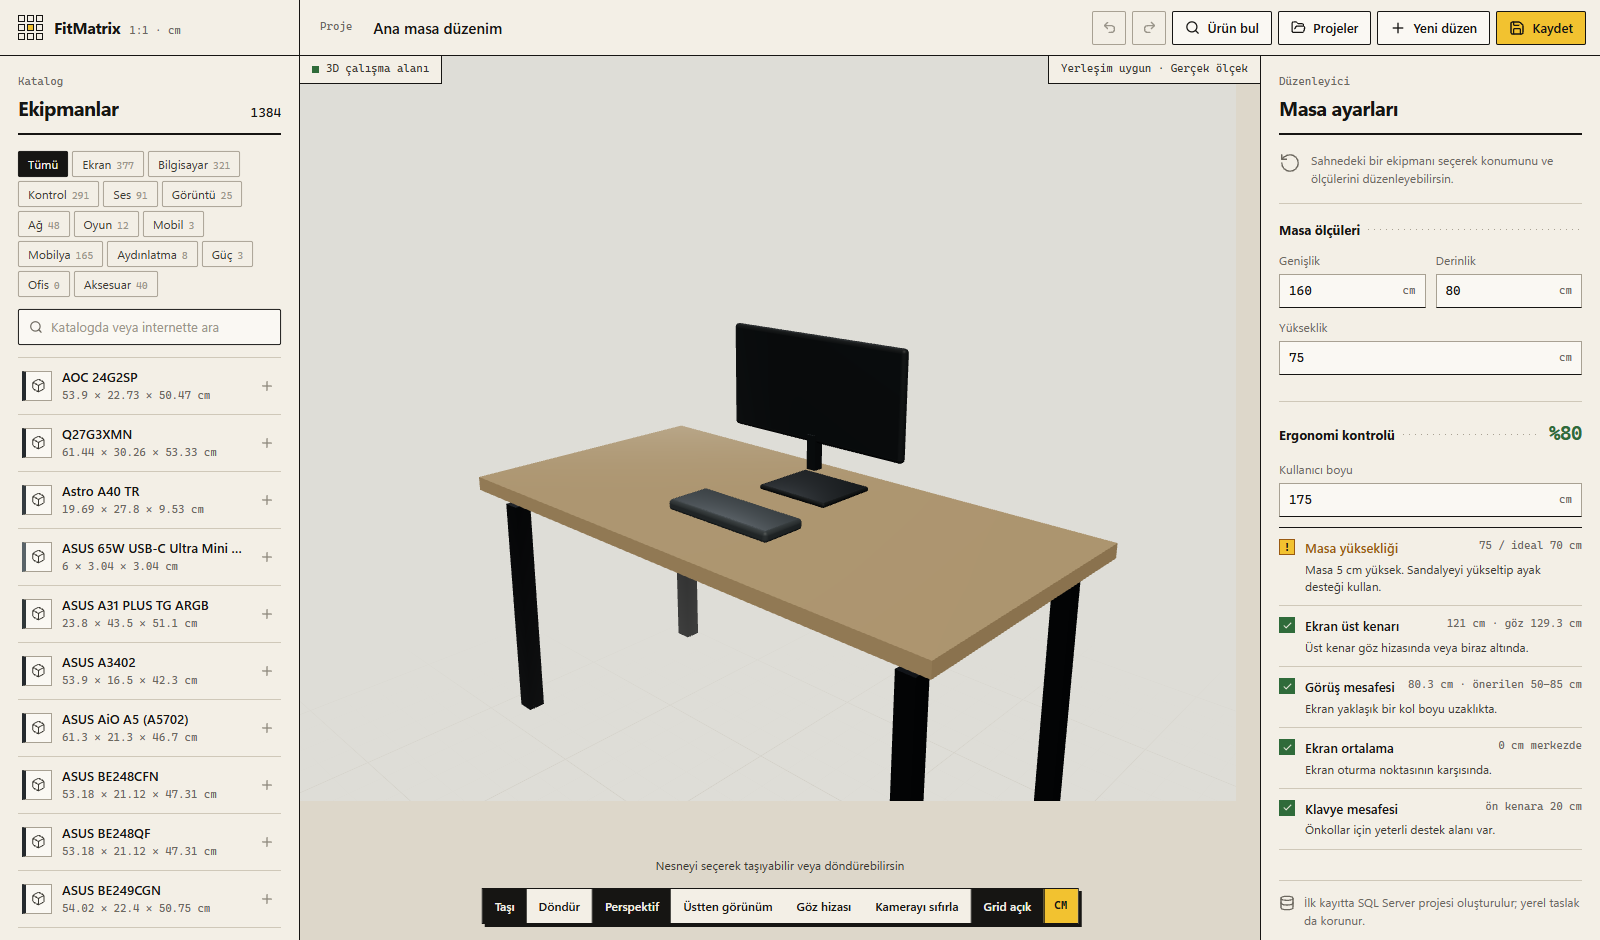
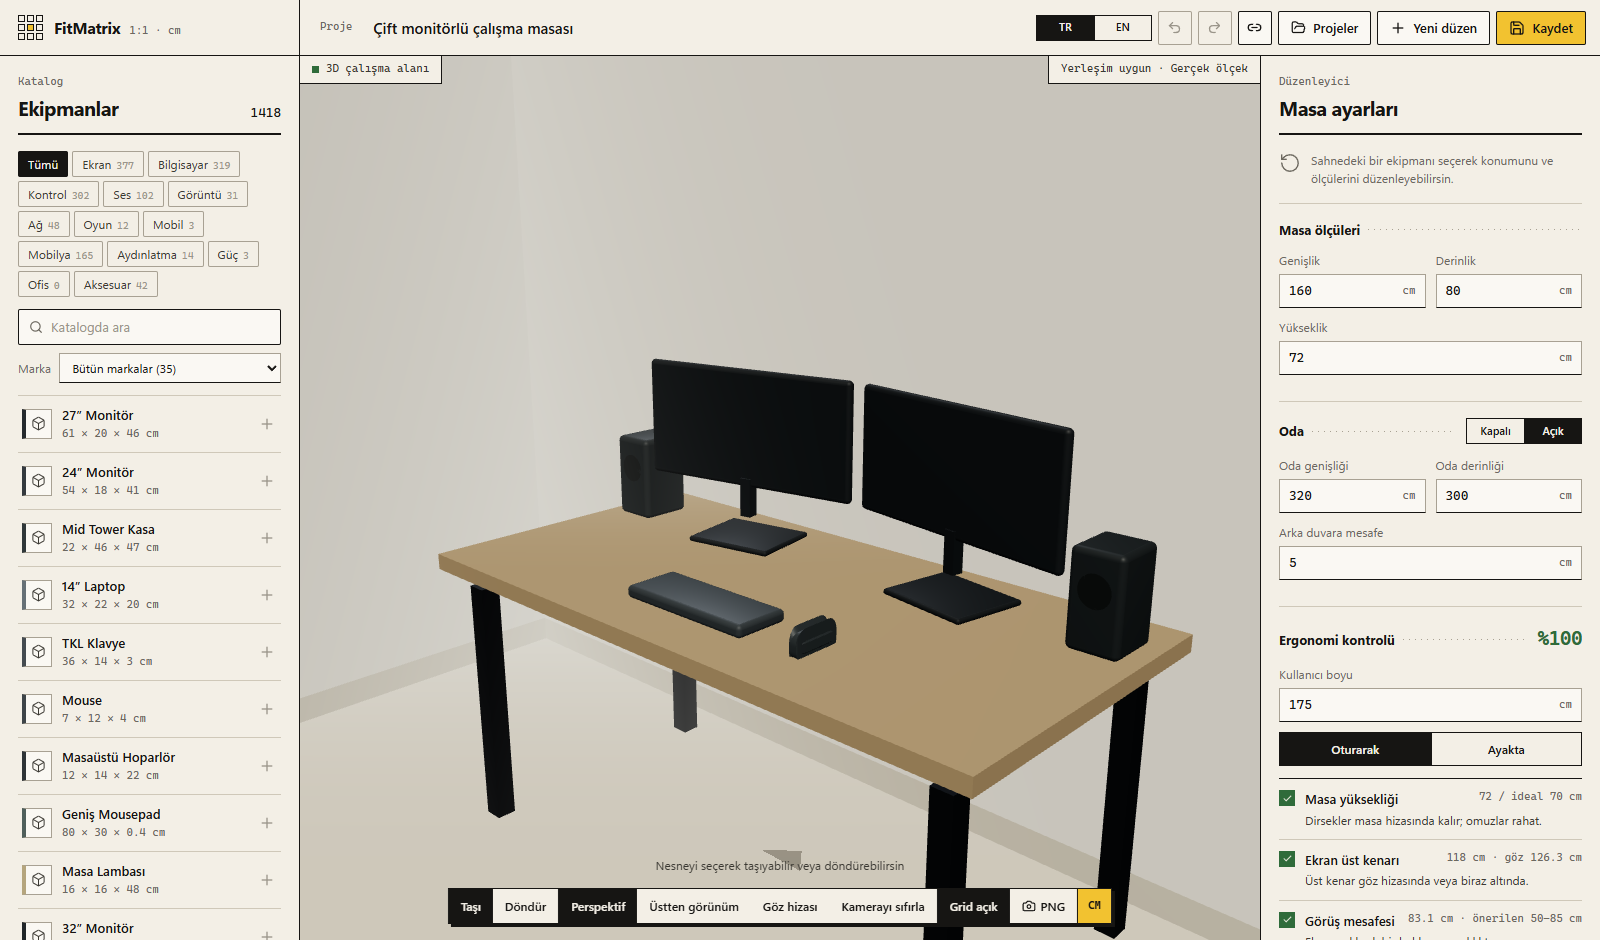
docs: refresh the README screenshot with a script
The picture predated the room, the language switch and the new top bar.
scripts/readme-screenshot.mjs loads a dual-monitor desk in a room into the
demo build and captures it with Playwright, so the image can be redone
whenever the interface changes.

diff --git a/README.md b/README.md
@@ -139,6 +139,14 @@ npm run e2e
 npm run build
 ```
 
+README görselini (`docs/images/editor.png`) arayüz değiştiğinde yenilemek için demo derlemesini önizlemede açıp betiği çalıştır:
+
+```powershell
+npm run build:demo
+npx vite preview --mode demo --port 4173
+node scripts/readme-screenshot.mjs
+```
+
 Editör kısayolları:
 
 - `Ctrl+Z`: geri al
